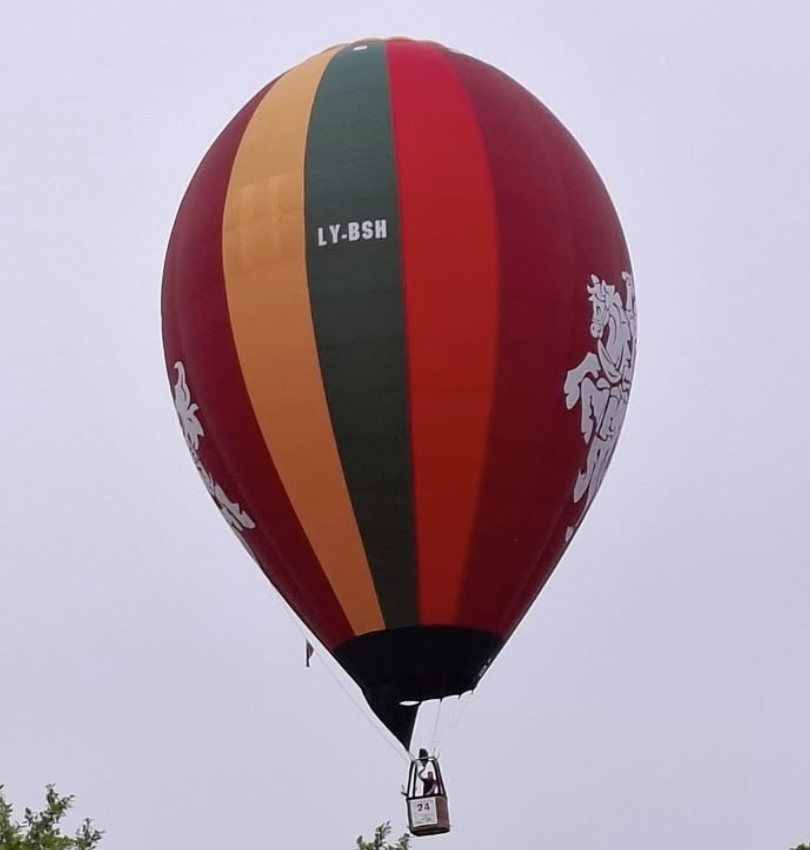
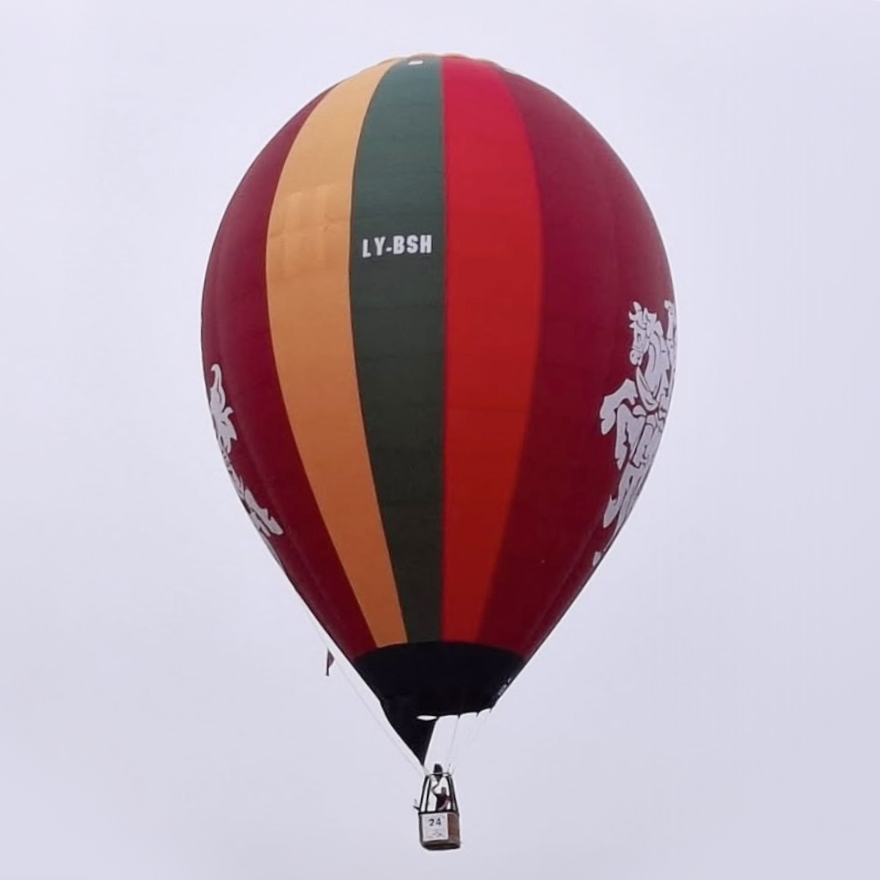
cards > index-cards

diff --git a/data.js b/data.js
@@ -150,7 +150,7 @@ function balloonImage(row, index, className) {
 // Photos live in images/details/<id>.jpg, made by prepare_images.py. The .img column
 // names the original photo for that script; "n/a" means there is no photo.
 const DETAILS_DIR = "images/details/";
-const CARDS_DIR = "images/cards/";
+const CARDS_DIR = "images/index-cards/";
 
 function imageSrc(row) {
   if ((row[".img"] || "").trim().toLowerCase() === "n/a") return null;

diff --git a/details.html b/details.html
@@ -9,7 +9,7 @@
   <link rel="stylesheet" href="https://fonts.googleapis.com/css2?family=Google+Sans+Flex:opsz,wght@6..144,400..700&display=swap">
   <link rel="stylesheet" href="styles.css?v=13">
   <script src="https://cdnjs.cloudflare.com/ajax/libs/PapaParse/5.4.1/papaparse.min.js"></script>
-  <script src="data.js?v=13"></script>
+  <script src="data.js?v=15"></script>
 </head>
 <body class="details-page">
   <header class="site-nav">

diff --git a/index.html b/index.html
@@ -9,7 +9,7 @@
   <link rel="stylesheet" href="https://fonts.googleapis.com/css2?family=Google+Sans+Flex:opsz,wght@6..144,400..700&display=swap">
   <link rel="stylesheet" href="styles.css?v=13">
   <script src="https://cdnjs.cloudflare.com/ajax/libs/PapaParse/5.4.1/papaparse.min.js"></script>
-  <script src="data.js?v=13"></script>
+  <script src="data.js?v=15"></script>
 </head>
 <body>
   <main class="page">

diff --git a/prepare_images.py b/prepare_images.py
@@ -17,7 +17,7 @@ For every row in the register:
                              (cover), ly-auz__2.jpg, ly-auz__3.jpg, ... (any case/extension)
 
 Each cover also gets a 10:7 centre-cropped copy for the list page's cards, in
-images/cards/<id>.jpg. Prefer your own crop? Save it over that file: a card is only
+images/index-cards/<id>.jpg. Prefer your own crop? Save it over that file: a card is only
 remade when its cover is newer, or with --force.
 
 Finally index.json (next to index.html) is written with the total number of photos
@@ -83,7 +83,7 @@ def make_card(src, dst, quality):
 
 
 def make_cards(details, cards, quality, force):
-    """Make cards/<id>.jpg for each cover in details/, keep newer ones (they may be hand-made), drop orphans. Returns (made, failed)."""
+    """Make index-cards/<id>.jpg for each cover in details/, keep newer ones (they may be hand-made), drop orphans. Returns (made, failed)."""
     cards.mkdir(exist_ok=True)
     covers = {p.stem: p for p in details.glob("*.jpg") if "__" not in p.stem}
     made, failed = 0, []
@@ -124,7 +124,7 @@ def main():
     parser = argparse.ArgumentParser(description=__doc__, formatter_class=argparse.RawDescriptionHelpFormatter)
     parser.add_argument("--csv", type=Path, default=HERE / "register.csv", help="register CSV (default: register.csv)")
     parser.add_argument("--originals", type=Path, default=HERE / "photos-original", help="folder with downloaded photos")
-    parser.add_argument("--out", type=Path, default=HERE / "images", help="output folder, holding details/ and cards/ (default: images)")
+    parser.add_argument("--out", type=Path, default=HERE / "images", help="output folder, holding details/ and index-cards/ (default: images)")
     parser.add_argument("--size", type=int, default=1200, help="longest side in pixels (default: 1200)")
     parser.add_argument("--quality", type=int, default=80, help="JPEG quality 1-100 (default: 80)")
     parser.add_argument("--force", action="store_true", help="redo images that already exist")
@@ -132,7 +132,7 @@ def main():
     parser.add_argument("--index-only", action="store_true", help="only make cards and rebuild index.json from the files in images/details/")
     args = parser.parse_args()
     details = args.out / "details"
-    cards = args.out / "cards"
+    cards = args.out / "index-cards"
 
     if args.index_only:
         if not details.is_dir():
